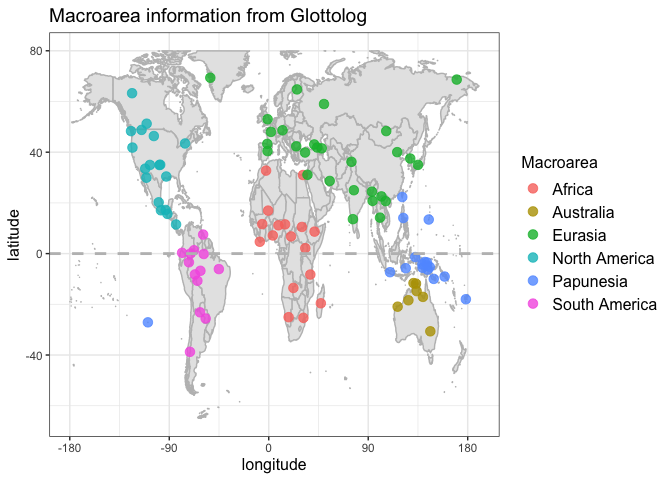
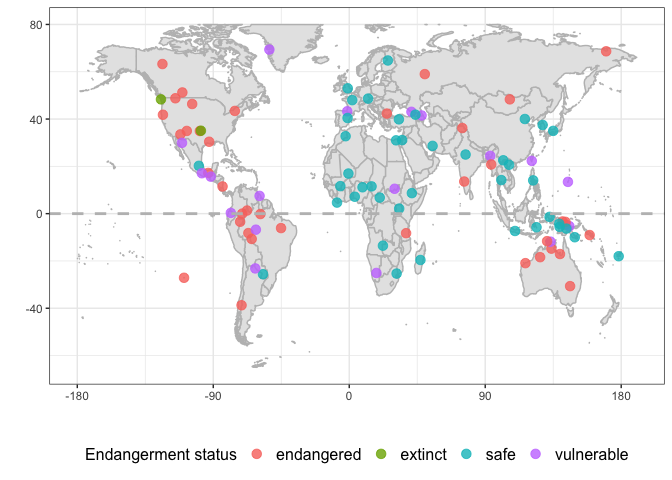
adds updated report

diff --git a/Reports/maps/maps.md b/Reports/maps/maps.md
@@ -97,7 +97,7 @@ status_map
 # ggsave("worldmap_status.pdf", status_map, dpi = 300, scale = 1, device = cairo_pdf)
 ```
 
-For publication, we tweek the labels.
+For publication, we tweak the labels.
 
 ``` r
 world <- map_data("world")
@@ -121,6 +121,45 @@ status_map
 ```
 
 ![](maps_files/figure-gfm/100LC-sample-1.png)<!-- -->
+
+``` r
+# ggsave("worldmap_status.pdf", status_map, dpi = 300, scale = 1, device = cairo_pdf)
+```
+
+We can also tweak the EL scales, so that the legend isn’t so large. We
+consider all ELs EL.
+
+``` r
+minimal_el_status <- lang100
+minimal_el_status$status[minimal_el_status$status == "severely endangered"] <- "endangered"
+minimal_el_status$status[minimal_el_status$status == "definitely endangered"] <- "endangered"
+minimal_el_status$status[minimal_el_status$status == "critically endangered"] <- "endangered"
+```
+
+Map it.
+
+``` r
+world <- map_data("world")
+status_map <- ggplot() + 
+  geom_polygon(data = world, aes(x = long, y = lat, group = group), 
+               fill = "grey90", col = "grey") +
+  geom_point(data = minimal_el_status, aes(x = longitude_glotto, y = latitude_glotto, colour = status), 
+             alpha = 0.8, size = 3) +
+  scale_y_continuous(limits = c(-65, 80)) +
+  scale_x_continuous(breaks = c(-180, -90, 0, 90, 180)) +
+  geom_hline(aes(yintercept = 0), colour = "grey", size = 1, linetype = 2) +
+  labs(x = "", y = "", color = "Endangerment status") +
+  theme_bw() +
+  theme(axis.title.x = element_text(size = 12),
+        axis.title.y = element_text(size = 12),
+        title = element_text(size = 12),
+        legend.title = element_text(size = 12),
+        legend.text = element_text(size = 12),
+        legend.position = "bottom")
+status_map
+```
+
+![](maps_files/figure-gfm/unnamed-chunk-7-1.png)<!-- -->
 
 ``` r
 # ggsave("worldmap_status.pdf", status_map, dpi = 300, scale = 1, device = cairo_pdf)
@@ -150,7 +189,7 @@ family_map <- ggplot() +
 family_map
 ```
 
-![](maps_files/figure-gfm/unnamed-chunk-6-1.png)<!-- -->
+![](maps_files/figure-gfm/unnamed-chunk-8-1.png)<!-- -->
 
 ``` r
 # ggsave("family_map.pdf", family_map, dpi = 300, scale = 1, device = cairo_pdf)
@@ -179,7 +218,7 @@ macroarea_map <- ggplot() +
 macroarea_map
 ```
 
-![](maps_files/figure-gfm/unnamed-chunk-7-1.png)<!-- -->
+![](maps_files/figure-gfm/unnamed-chunk-9-1.png)<!-- -->
 
 ``` r
 # ggsave("macroarea_map.pdf", macroarea_map, dpi = 300, scale = 1, device = cairo_pdf)
@@ -228,7 +267,7 @@ ws_map <- ggplot() +
 ws_map
 ```
 
-![](maps_files/figure-gfm/unnamed-chunk-10-1.png)<!-- -->
+![](maps_files/figure-gfm/unnamed-chunk-12-1.png)<!-- -->
 
 ``` r
 # ggsave("ws_map.pdf", macroarea_map, dpi = 300, scale = 1, device = cairo_pdf)
@@ -307,7 +346,7 @@ word_tokens <- ggplot() +
 word_tokens
 ```
 
-![](maps_files/figure-gfm/unnamed-chunk-14-1.png)<!-- -->
+![](maps_files/figure-gfm/unnamed-chunk-16-1.png)<!-- -->
 
 ``` r
 # ggsave("word_tokens.pdf", macroarea_map, dpi = 300, scale = 1, device = cairo_pdf)
@@ -352,7 +391,7 @@ word_types <- ggplot() +
 word_types
 ```
 
-![](maps_files/figure-gfm/unnamed-chunk-17-1.png)<!-- -->
+![](maps_files/figure-gfm/unnamed-chunk-19-1.png)<!-- -->
 
 ``` r
 # ggsave("word_types.pdf", macroarea_map, dpi = 300, scale = 1, device = cairo_pdf)
